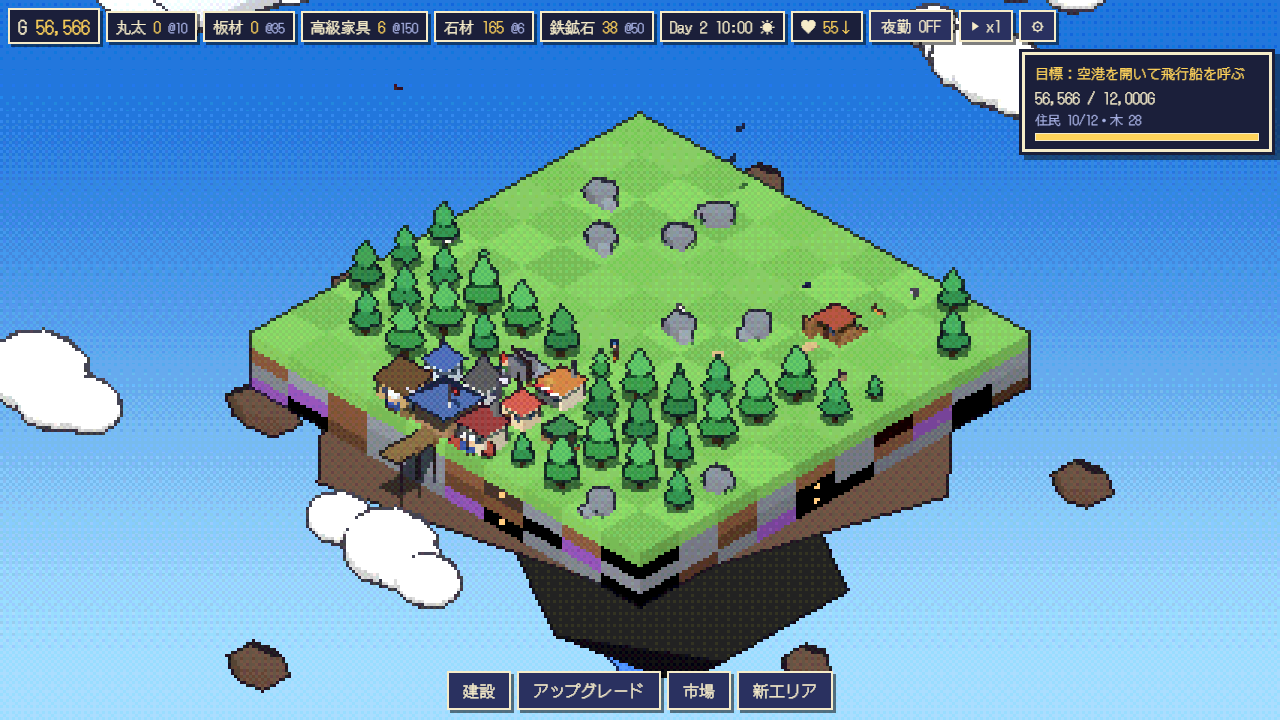
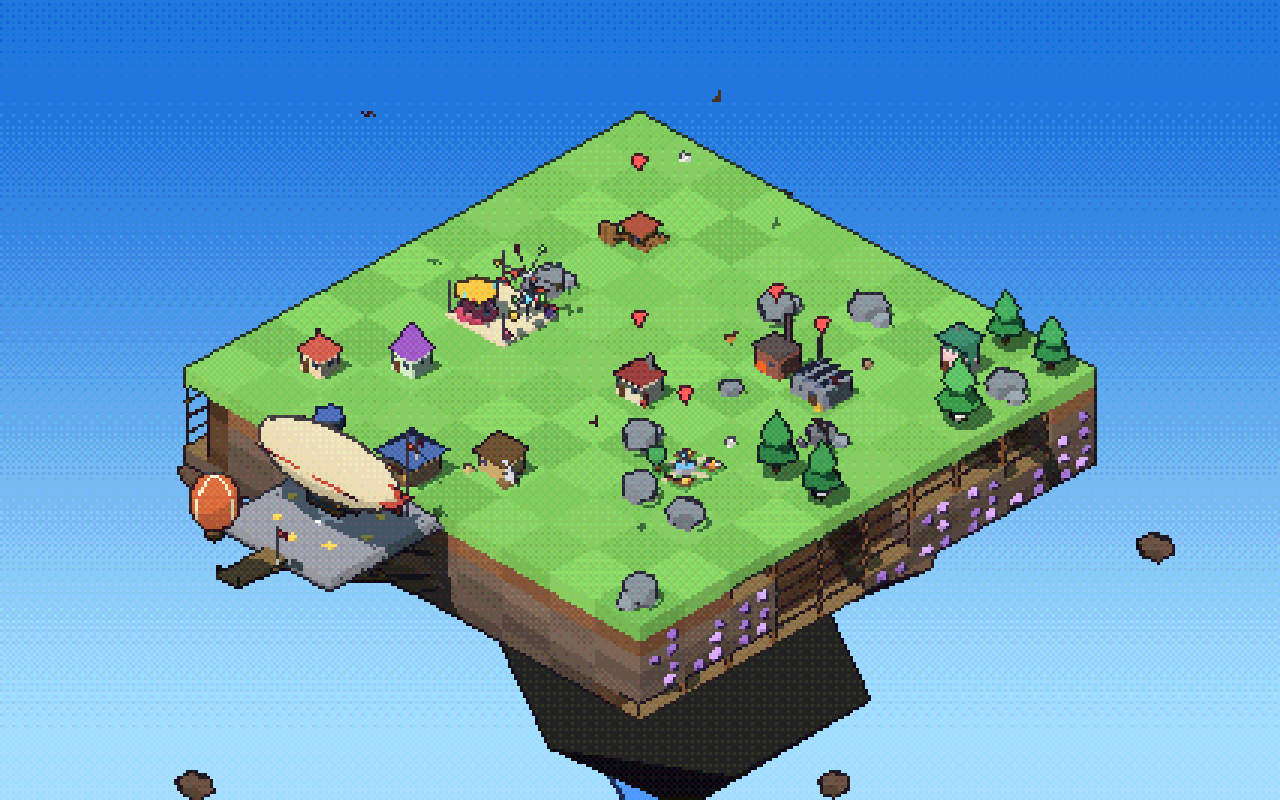
石を廃止して鉄鉱石に・断面図・空港と桟橋・直線の道・新しい暮らしの建物・空港後のやり込み
- 地上の岩から鉄鉱石。地下は鉄鉱石だけ（残量が断面図の鉱石の数で見える）
- 桟橋の両隣の崖を断面図に：坑道・支柱・ランタン・働く鉱夫
- 空港は桟橋の場所に。先端に桟橋、崖から斜めの支柱で支える
- 道は住民が実際に歩いた直線ルート
- 移動10G、家の見た目 形5G・色2G、金額のGを金色に
- 幸福の表示を文字に戻す、建物のあいだに隙間、家の明かりを全建物に
- 暗くなる前に家に着くよう仕事を切り上げる
- 注意の矢印、嵐・借金・注文の条件見直し、祭りは音楽に
- 花の公園・浴場・空の遊園地、飛行船の改装と観光客
- 幸福・夜勤のイベント、結果カードのイラスト16枚
- セーブを島ごとの形式に（旧セーブは自動で移行）

Claude-Session: https://claude.ai/code/session_01Uj57nGQSB9VBn89LNiyo9N

diff --git a/game.js b/game.js
@@ -714,7 +714,7 @@ function makeBuilding(type, r=0.5, b=null){
       break; }
   }
   // 隣の建物とのあいだに隙間をあける（住民が通るのが見えるように）
-  const BS = type === 'house' ? 0.9 : (type === 'park' || type === 'fun') ? 1 : 0.8;
+  const BS = type === 'house' ? 0.9 : type === 'fun' ? 1.3 : type === 'park' ? 1 : 0.8;
   const inner = new THREE.Group(); inner.scale.setScalar(BS);
   while (g.children.length) inner.add(g.children[0]);
   g.add(inner); u.inner = inner;
@@ -786,7 +786,7 @@ function buildCost(type){
 const lvlCost = b => Math.round(BUILD[b.type].cost.g * 1.5 * Math.pow(1.8, b.lvl-1));
 function price(it){
   let m = S.sat[it]; const cap = S.satCap[it]; if (cap && S.day < cap.until) m = Math.min(m, cap.v);
-  const craft = S.flags.craft && (it === 'furn' || it === 'gear') ? 1.3 : 1;
+  const craft = (S.flags.craft && (it === 'furn' || it === 'gear') ? 1.3 : 1) * (S.flags.forest && (it === 'furn' || it === 'plank') ? 1.2 : 1);
   return ITEMS[it].p * m * craft;
 }
 function partnerAdj(i){ const d = BUILD[S.cells[i].b.type]; return !!d.partner && neigh8(i).some(j => isB(j, d.partner)); }
@@ -807,7 +807,7 @@ function moodBreakdown(){
   if (S.flags.sacred) Lst.push([L('聖なる岩山','Sacred rocks'), 8]);
   if (S.flags.craft) Lst.push([L('職人の誇り','Craft pride'), 4]);
   if (S.flags.steam) Lst.push([L('工場の煙','Factory smoke'), -8]);
-  const np = noisePairs(); if (np) Lst.push([L('工場の騒音','Factory noise')+'('+np+')', -3*np]);
+  const np = noisePairs(); if (np) Lst.push([L('工場の騒音','Factory noise')+'('+np+')', -Math.min(20, 3*np)]);
   const hl = Math.max(0, workerCount() - housing()); if (hl) Lst.push([L('家なし','Homeless')+'('+hl+')', -6*hl]);
   if (S.nightShift && isNight() && workerCount()) Lst.push([L('夜勤中','Night shift')+(countB('bath') ? L('（浴場で半分）',' (bath: half)') : ''), countB('bath') ? -6 : -12]);
   return Lst;
@@ -854,7 +854,9 @@ function place(type, i){
   S.cells[i] = {t:'b', r:Math.random(), b};
   setCellMesh(i); CM[i].userData.pop = 0.35; sfx('build'); shake(0.06);
   burst(wpos(i).x, 0.3, wpos(i).z, 'stone', 6);
-  assignLights(); return true;
+  assignLights();
+  if (type === 'fun' && countB('fun') === 1) eventQueue.push({result:true, img:'skyfair', title:L('空の遊園地、開園！','The Sky Fair opens!'), text:L('回転木馬がまわりはじめた。飛行船の観光客たちが、さっそく列をつくっている。レベルを上げると乗り物が増える。','The carousel starts to turn, and airship tourists are already lining up. Level it up for more rides.')});
+  return true;
 }
 function moveBuilding(from, to){
   if (from === to || canPlace(null, to) || S.gold < P.moveCost) return false;
@@ -936,7 +938,7 @@ function offDuty(w){
   if (!workTime()) return true;
   if (isNight() || (S.nightShift && S.meteorNight !== S.day)) return false;
   const h = hourOf(S.time); if (h < 15) return false;
-  const hp = homePt(w), wp = bPt(w.bi, w), walk = Math.hypot(hp.x - wp.x, hp.z - wp.z) / (P.walk * moodF() * 0.85) + 3;
+  const hp = homePt(w), wp = bPt(w.bi, w), walk = Math.hypot(hp.x - wp.x, hp.z - wp.z) / (P.walk * moodF() * 0.85) + (w.job === 'haul' ? 7 : 3);
   return (19.25 - h) * SEC_H < walk;
 }
 function findNearest(kind, from){
@@ -1134,6 +1136,8 @@ function clickCell(i){
 
 /* ---- 1日の区切り */
 function onDawn(){
+  S.yday = {}; for (const k of ITEM_KEYS) S.yday[k] = S.stats.made[k] - (S.madePrev?.[k] || 0);
+  S.madePrev = {...S.stats.made};
   S.day++;
   if (S.nightUsed){ S.stats.nightShifts++; S.nsStreak++; } else S.nsStreak = 0;
   S.nightUsed = false;
@@ -1174,7 +1178,7 @@ function onDawn(){
   if (NO && S.day > NO.day){
     S.nightShift = NO.prev; S.nightOrder = null;
     let n = 0, v = 0; if (NO.snap) for (const k of ['plank','furn','ingot','gear']){ const d = S.stats.made[k] - (NO.snap[k] || 0); n += d; v += d * ITEMS[k].p; }
-    const bonus = Math.round(v * 0.6); S.gold += bonus; S.stats.earned += bonus;
+    const bonus = Math.round(v * 0.45); S.gold += bonus; S.stats.earned += bonus;
     eventQueue.push({result:true, img:'nightorder_ok', title:L('特急便、出発！','The dawn express departs!'), text: n ? L('夜のうちに作った加工品 '+n+'個を積みこんだ。<b>ボーナス +'+fmt(bonus)+'G</b>（品物は市場に残る）', n+' crafted goods made overnight were loaded. <b>Bonus +'+fmt(bonus)+'G</b> (you keep the goods)') : L('残念、夜のあいだに加工品はできなかった……。','Sadly, nothing was crafted overnight…')});
   }
   if (S.airport){
@@ -1274,7 +1278,8 @@ let eventQueue = []; const queuedIds = {};
 function estPerDay(it){
   let r = 0; for (const i of allB()){ const b = S.cells[i].b, d = BUILD[b.type]; if (d.out === it && b.workers) r += P.dayLen*P.dayFrac / d.time * speedMult(i); }
   if (it === 'log') r = allB('camp').reduce((a,i)=>a + S.cells[i].b.workers*16, 0);
-  return r;
+  const y = S.yday?.[it];          // 前日の実績があればそれを使う（理論値は材料不足を考えないので甘い）
+  return y > 0 ? Math.min(y, r || y) : r * 0.5;
 }
 const EVENTS = [
   {id:'vein', fixed:3, make:()=>({img:'vein', title:L('岩山に鉄の鉱脈！','An iron vein in the rocks!'), text:L('調査隊が島の地下に大きな鉄の鉱脈を見つけた。一方、長老は「岩山は島の守り神じゃ」と首を振る。','Surveyors found a big iron vein under the island. But the elder shakes his head: "The rocks protect our island."'), opts:[
@@ -1288,12 +1293,12 @@ const EVENTS = [
   {id:'policy', fixed:5, make:()=>({img:'policy', title:L('島の進む道','The island’s path'), text:L('島が大きくなり、住民集会が開かれた。これからのやり方を決めよう。この決定はずっと続く。','The island has grown and a town meeting is held. Choose how it will grow. This lasts forever.'), opts:[
     {l:L('蒸気機関を入れる','Bring in steam engines'), d:L('加工の速度 +35%。ただし煙で幸福 -8、木の自然再生が半分に','Crafting +35%. Smoke: happiness -8, tree regrowth halved'), f:()=>{ S.flags.steam = true; story('蒸気機関を導入した','Brought in steam engines'); return {img:'steam', title:L('蒸気機関、始動！','Steam engines roar!'), text:L('もくもくと煙が上がり、歯車がうなる。','Smoke billows and gears hum.')}; }},
     {l:L('職人の誇りを守る','Keep the craft pride'), d:L('高級家具・歯車の売値 +30%、幸福 +4','Furniture & gears sell +30%, happiness +4'), f:()=>{ S.flags.craft = true; story('職人の道を選んだ','Chose the way of craft'); return {img:'craft', title:L('職人の誇り','Craft pride'), text:L('ひとつひとつ、ていねいに。この島の品は本土で高く売れるようになった。','Carefully, one by one. The island’s goods now fetch a high price.')}; }},
-    {l:L('森と共に生きる','Live with the forest'), d:L('木の再生・植林 ×2、木による幸福 ×1.5。加工の速度 -10%','Regrowth & planting x2, tree happiness x1.5. Crafting -10%'), f:()=>{ S.flags.forest = true; story('森と共に生きる道を選んだ','Chose to live with the forest'); return {img:'forest', title:L('森と共に','With the forest'), text:L('苗木を植え、森を育てる。小鳥やリスが戻ってきた。','Saplings are planted and birds return to the island.')}; }},
+    {l:L('森と共に生きる','Live with the forest'), d:L('木の再生・植林 ×2、木による幸福 ×1.5、板材・家具の売値 +20%。加工の速度 -10%','Regrowth & planting x2, tree happiness x1.5, planks & furniture sell +20%. Crafting -10%'), f:()=>{ S.flags.forest = true; story('森と共に生きる道を選んだ','Chose to live with the forest'); return {img:'forest', title:L('森と共に','With the forest'), text:L('苗木を植え、森を育てる。小鳥やリスが戻ってきた。','Saplings are planted and birds return to the island.')}; }},
   ]})},
   {id:'contract', w:3, cond:()=>S.contracts.length < 2, make:()=>{
     const it = countB('workshop') ? 'furn' : countB('sawmill') ? 'plank' : 'log';
-    const est = Math.max(3, estPerDay(it)), need = Math.max(5, Math.round(est * rnd(1.1, 2.1)));
-    const mult = Math.round(rnd(1.4, 2.8)*10)/10, reward = Math.round(need * ITEMS[it].p * mult), penalty = Math.round(need * ITEMS[it].p * rnd(0.5, 1.1));
+    const est = Math.max(3, estPerDay(it)), need = Math.max(5, Math.round(est * rnd(1.0, 1.8)));
+    const mult = Math.round(rnd(1.4, 2.8)*10)/10, reward = Math.round(need * ITEMS[it].p * mult), penalty = Math.round(need * ITEMS[it].p * rnd(0.4, 0.9));
     const tag = mult >= 2.4 ? L('（かなりお得！）',' (a great deal!)') : mult <= 1.7 ? L('（ちょっと渋い）',' (a bit stingy)') : '';
     return {img:'contract', title:L('大口の注文','A big order'), text:L('本土の商会から「'+N(ITEMS[it].n)+'を'+need+'個、2日後の朝までに」と注文が来た。報酬は相場の約'+mult+'倍'+tag+'。今のペースは1日およそ'+Math.round(est)+'個。', 'A mainland guild wants '+need+' '+N(ITEMS[it].n)+' within 2 days, paying about '+mult+'× market'+tag+'. You make about '+Math.round(est)+' a day.'), opts:[
       {l:L('引き受ける','Accept'), d:L('市場に入った分から自動で納品。成功で '+fmt(reward)+'G。失敗すると違約金 '+fmt(penalty)+'G と幸福 -5', 'Goods reaching the market are delivered automatically. Success: '+fmt(reward)+'G. Failure: '+fmt(penalty)+'G penalty, happiness -5'),
@@ -1426,8 +1431,8 @@ const EVENTS = [
         return {img:'unrest', title:L('しぶしぶ仕事へ','Grudgingly back to work'), text:L('ぶつぶつ言いながらも、みんな持ち場に戻った。','Muttering, everyone went back to work.')}; }},
     ]};
   }},
-  {id:'nightorder', w:2.5, cond:()=>!S.nightShift && !S.nightOrder && S.day >= 4 && allB().some(i=>BUILD[S.cells[i].b.type]?.in && S.cells[i].b.workers), make:()=>({img:'nightorder', title:L('夜明けの特急便','The dawn express'), text:L('商人が「明日の朝いちばんの気球に、夜のうちに作った品を積みたい。いつもの1.6倍で買うよ」と言っている。','A merchant says: "Load what you craft tonight on tomorrow’s first balloon. I’ll pay 1.6× the usual."'), opts:[
-    {l:L('今夜は夜勤！','Night shift tonight!'), d:L('今夜だけ夜勤ON。夜のあいだに作った加工品の値段の6割がボーナスで入る（品物は手元に残る）','Night shift ON just for tonight. Bonus: 60% of the value of goods crafted overnight (you keep the goods)'), f:()=>{
+  {id:'nightorder', w:1.5, cond:()=>!S.nightShift && !S.nightOrder && S.day >= 4 && allB().some(i=>BUILD[S.cells[i].b.type]?.in && S.cells[i].b.workers), make:()=>({img:'nightorder', title:L('夜明けの特急便','The dawn express'), text:L('商人が「明日の朝いちばんの気球に、夜のうちに作った品を積みたい。いつもの1.45倍で買うよ」と言っている。','A merchant says: "Load what you craft tonight on tomorrow’s first balloon. I’ll pay 1.45× the usual."'), opts:[
+    {l:L('今夜は夜勤！','Night shift tonight!'), d:L('今夜だけ夜勤ON。夜のあいだに作った加工品の値段の45%がボーナスで入る（品物は手元に残る）','Night shift ON just for tonight. Bonus: 45% of the value of goods crafted overnight (you keep the goods)'), f:()=>{
       S.nightOrder = {day:S.day, prev:S.nightShift, snap:null}; S.nightShift = true; story('夜明けの特急便に挑んだ','Took on the dawn express');
       return {img:'nightorder', title:L('今夜は夜なべ','Working through the night'), text:L('ランタンを灯して、夜通し機械を回す。浴場があると疲れが軽くなる。','Lanterns lit, the machines will run all night. A bathhouse eases the fatigue.')}; }},
     {l:L('夜はしっかり休む','Rest at night'), d:L('幸福 +2','Happiness +2'), f:()=>{ addMood(2); }},
@@ -2191,7 +2196,7 @@ function urgentCells(){
 }
 function updateAlerts(){
   const u = urgentCells();
-  while (alertMarks.length < u.length){ const m = new THREE.Mesh(G.cone4, alertMat); m.scale.set(0.13,0.22,0.13); m.rotation.x = Math.PI; scene.add(m); alertMarks.push(m); }
+  while (alertMarks.length < u.length){ const m = new THREE.Mesh(G.cone4, alertMat); m.scale.set(0.17,0.3,0.17); m.rotation.x = Math.PI; scene.add(m); alertMarks.push(m); }
   alertMarks.forEach((m, k) => { const i = u[k]; m.visible = i !== undefined; if (!m.visible) return; const p = wpos(i); m.position.set(p.x, 1.2 + Math.abs(Math.sin(elapsed*5 + k))*0.18, p.z); m.rotation.y = elapsed*2; });
 }
 function markerTarget(){
@@ -2460,4 +2465,4 @@ window.DTT = {get S(){return S;}, P, W, WH, place, hire, levelUp, sell, clickCel
   skipTut:()=>{S.tut=-1;$('#tut').hidden=true;}, reset:resetGame,
   screenOf:(i)=>{const p=wpos(i); return toScreen(p.x,0,p.z);},
   bench:(n=30)=>{const px=new Uint8Array(4);const gl=renderer.getContext();const t0=performance.now();for(let k=0;k<n;k++){renderer.setRenderTarget(rt);renderer.render(scene,cam);renderer.setRenderTarget(null);renderer.render(postScene,postCam);gl.readPixels(0,0,1,1,gl.RGBA,gl.UNSIGNED_BYTE,px);}return (performance.now()-t0)/n;},
-  get trade(){return trade;}, camS, buildDock, buildAirship, updateTiles, get mode(){return mode;}, setLang:(l)=>{SET.lang=l; applySettings(); renderTop();}};
+  get trade(){return trade;}, camS, buildDock, buildAirship, updateTiles, moodBreakdown, offDuty, whale, get mode(){return mode;}, setLang:(l)=>{SET.lang=l; applySettings(); renderTop();}};

diff --git a/README.md b/README.md
@@ -6,7 +6,7 @@
 
 *A 3D world rendered as pixel art. Grow a floating island town — chop, build, haul and trade. Japanese / English.*
 
-▶ **遊ぶ / Play: https://sin1.studio/DioramaTownTycoon/**（インストール不要・PC／スマホ対応）
+▶ **遊ぶ / Play: https://sin1.studio/diorama/**（インストール不要・PC／スマホ対応）
 
 | 昼の島 | 夜（収穫祭） |
 |---|---|
@@ -14,12 +14,13 @@
 
 ## 遊び方
 
-1. **木や岩をクリック**して丸太・石材を集め、交易気球の商人に売る
+1. **木や岩をクリック**して丸太・鉄鉱石を集め、交易気球の商人に売る
 2. **木こり小屋**は近くの木を伐り、丸太を**小屋に貯める**。小屋をタップすると回収できる
 3. **市場で運搬係を雇う**と自動化できる。できた物は**次の加工所へ直接**運ばれ、余った分は市場に届く
-4. 丸太 → 板材 → 高級家具。坑道を開けば、鉄鉱石 → 鉄インゴット → 歯車・機械
-5. 岩はいつか尽きる。坑道を開くと、採石場が地下を掘る（埋蔵量は多いが無限ではない）。島の崖に、トンネルとランタンが見えてくる
-6. **12,000Gで空港を開く**と飛行船がやってきて、島の歩みに応じた**称号**が決まる
+4. 丸太 → 板材 → 高級家具。鉄鉱石 → 鉄インゴット → 歯車
+5. 地上の岩はいつか尽きる。坑道を開くと、採掘場が地下の鉄鉱石を掘る（量は多いが無限ではない）。桟橋の両隣の崖は**断面図**になっていて、坑道・残りの鉱石・働く鉱夫が見える
+6. **12,000Gで空港を開く**と、桟橋の場所に空港ができて飛行船がやってくる。島の歩みに応じた**称号**が決まる
+7. そのあとは**飛行船の改装**と**『空の遊園地』**で観光客を呼べる
 
 | 操作 | PC | スマホ |
 |---|---|---|
@@ -33,22 +34,24 @@
 ## 自分だけの島になっていく
 
 - **置き場所**：持ち場から遠い仕事ほど、急に効率が落ちます。木こり小屋は森のそば、加工所は市場のそばに置くと有利です
-- **移動は無料**：建物は少し時間をかけるだけで、いつでも動かせます
-- **道ができる**：住民がよく通る所に細い道ができます。「石畳の道」を取ると舗装されて速く歩けます
-- **家の見た目**：屋根の形・壁の色・屋根の色を選べます（1回20G）
+- **移動**：建物は10Gで、少し時間をかければいつでも動かせます
+- **道ができる**：住民が実際に歩いたまっすぐなルートが、よく通るほど濃い道になります。「石畳の道」を取ると舗装されて速く歩けます
+- **暮らし**：住民は暗くなる前に家に帰ります。家が遠いと、そのぶん早く仕事を切り上げます
+- **暮らしの建物**：パン屋・花の公園・浴場（夜勤の疲れが半分になる）
+- **家の見た目**：屋根の形（5G）・壁の色・屋根の色（各2G）を選べます
 - **島を広げる**：東西南北に1列ずつ広げられます
 - **空と住人**：交易気球、遠くを漂う気球、雲クジラ、うさぎ・ひつじ・ねこ・小鳥がいます。夜空には実在の星座をもとにした星が出て、流れ星も流れます
 - **となりの島**：ズームアウトすると、次の舞台の**酪農の島**と**農耕の島**が遠くに見えます（今後のアップデートで登場予定）
 
 ## 正解のないジレンマ
 
-毎朝「島の相談ごと」が届きます。どれもイラストつきです。鉄の鉱脈、島の進む道、雲クジラ、浮遊石のひび、空賊、気球の旅人、流れ星の夜、眠れる大鉱脈、収穫祭、嵐、大口注文などがあります。進行中の注文や返済は、画面上部のバーで達成率と期日までの残り時間がわかります。
+毎朝「島の相談ごと」が届きます。どれもイラストつきで、結果（成功・失敗）もイラストで出ます。鉄の鉱脈、島の進む道、雲クジラ、浮遊石のひび、空賊、気球の旅人、流れ星の夜、眠れる大鉱脈、収穫祭、嵐、大口注文、上機嫌の住民・不満の声、夜明けの特急便（夜勤）などがあります。借金や注文の条件は毎回少しずつ違い、お得なときも損なときもあります。進行中の注文や返済は、画面上部のバーで達成率と期日までの残り時間がわかります。
 
 称号は6種類あり、選び方によって変わります。
 
 ## 設定（⚙）
 
-言語（日本語／English）、建物アイコン（自動＝チュートリアル中だけ／いつも／注意だけ／なし）、音、ドットの粗さ、画面の揺れ、影、文字の大きさを変えられます。
+言語（日本語／English）、建物アイコン（自動＝チュートリアル中だけ／いつも／注意だけ／なし）、注意の矢印（壊れた・人がいない・満杯の建物）、音、ドットの粗さ、画面の揺れ、影、文字の大きさを変えられます。
 
 ## 技術メモ
 
